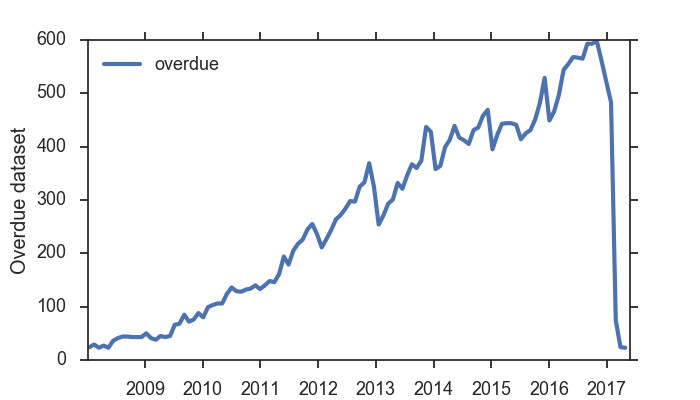
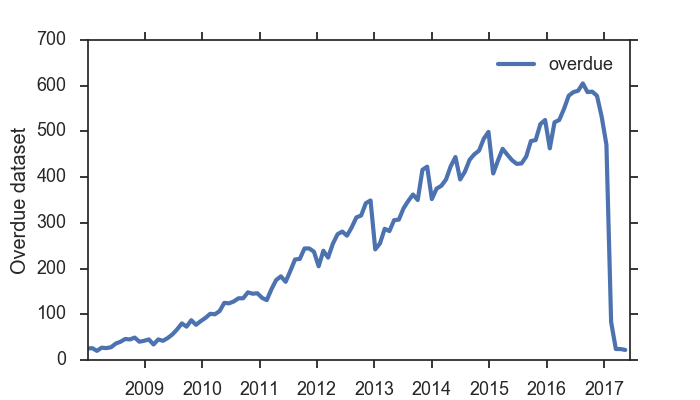
new run on GEO

diff --git a/docs/index.html b/docs/index.html
@@ -38,7 +38,7 @@
     <div class="content">
       <center>
         <h1> Datasets overdue for publication in GEO repository </h1>
-        <h3> Updated: 2017-04-28 </h3>
+        <h3> Updated: 2017-05-16 </h3>
         <img src="graph.png">
         <br> An "overdue" dataset is one that is still has yet to be made public even after the first detected reference in a publication.
         <br>
@@ -47,7 +47,7 @@
         <br>
       </center>
       <br/><br/>
-      <h4>Waiting for 23 datasets as of 2017-04-28:</h4>
+      <h4>Waiting for 22 datasets as of 2017-05-16:</h4>
       <center>
         <table border="1" class="dataframe table table-striped table-bordered">
   <thead>
@@ -180,13 +180,6 @@
       <td>An integrative approach unveils FOSL1 as an oncogene vulnerability in KRAS-driven lung and pancreatic cancer</td>
     </tr>
     <tr>
-      <td><a href="http://www.ncbi.nlm.nih.gov/geo/query/acc.cgi?acc=GSE82037">GSE82037</a></td>
-      <td>2017-02-22</td>
-      <td>Sci Rep</td>
-      <td><a href="http://dx.doi.org/10.1038/srep42633">10.1038/srep42633</a></td>
-      <td>Transcriptomic responses of the olive fruit fly Bactrocera oleae and its symbiont Candidatus Erwinia dacicola to olive feeding</td>
-    </tr>
-    <tr>
       <td><a href="http://www.ncbi.nlm.nih.gov/geo/query/acc.cgi?acc=GSE74062">GSE74062</a></td>
       <td>2017-02-23</td>
       <td>JCI Insight</td>
@@ -201,18 +194,18 @@
       <td>SMYD5 regulates H4K20me3-marked heterochromatin to safeguard ES cell self-renewal and prevent spurious differentiation</td>
     </tr>
     <tr>
-      <td><a href="http://www.ncbi.nlm.nih.gov/geo/query/acc.cgi?acc=GSE84443">GSE84443</a></td>
-      <td>2017-02-24</td>
-      <td>Sci Rep</td>
-      <td><a href="http://dx.doi.org/10.1038/srep43226">10.1038/srep43226</a></td>
-      <td>Genome-wide screening and characterization of long non-coding RNAs involved in flowering development of trifoliate orange (Poncirus trifoliata L. Raf.)</td>
-    </tr>
-    <tr>
       <td><a href="http://www.ncbi.nlm.nih.gov/geo/query/acc.cgi?acc=GSE73593">GSE73593</a></td>
       <td>2017-02-24</td>
       <td>Sci Rep</td>
       <td><a href="http://dx.doi.org/10.1038/srep43166">10.1038/srep43166</a></td>
       <td>Comprehensive analysis of long non-coding RNAs highlights their spatio-temporal expression patterns and evolutional conservation in Sus scrofa</td>
+    </tr>
+    <tr>
+      <td><a href="http://www.ncbi.nlm.nih.gov/geo/query/acc.cgi?acc=GSE84443">GSE84443</a></td>
+      <td>2017-02-24</td>
+      <td>Sci Rep</td>
+      <td><a href="http://dx.doi.org/10.1038/srep43226">10.1038/srep43226</a></td>
+      <td>Genome-wide screening and characterization of long non-coding RNAs involved in flowering development of trifoliate orange (Poncirus trifoliata L. Raf.)</td>
     </tr>
     <tr>
       <td><a href="http://www.ncbi.nlm.nih.gov/geo/query/acc.cgi?acc=GSE86851">GSE86851</a></td>
